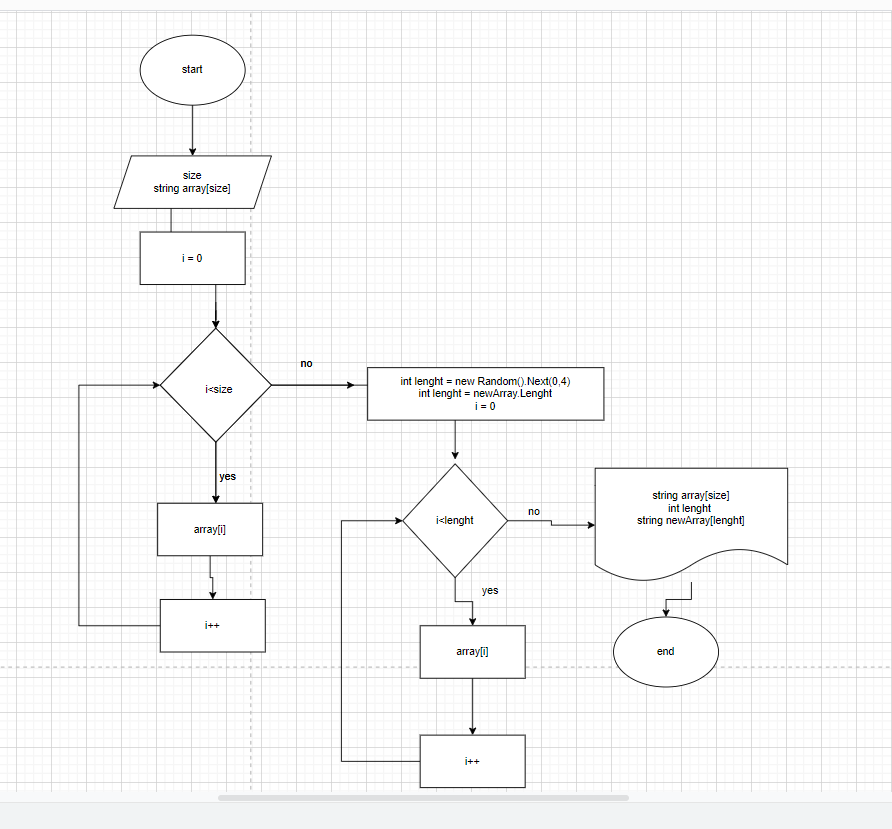
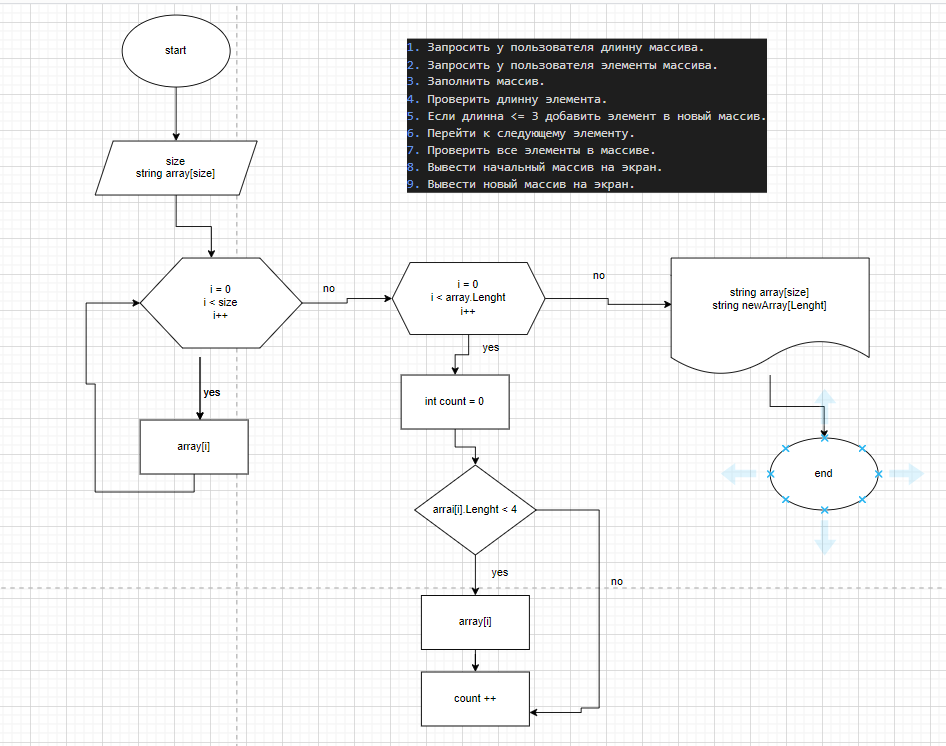
Изменили алгоритм, программу и блок схему на верные. Изначально я не правильно поняла условие задания

diff --git a/Program.cs b/Program.cs
@@ -19,25 +19,24 @@ void ShowArray(string[] array)
     Console.WriteLine();
 }
 
-string[] NewArray(string[] array)
+
+void NewArray(string[] array)
 {
-    int lenght = new Random().Next(0, 4);
-    string[] newArray2 = new string[lenght];
-
-    Console.Write($"Длинна нового массива -> {lenght}");
-
-    for (int i = 0; i < lenght; i++)
+    Console.Write("Получившийся новый массив -> ");
+    for (int i = 0; i < array.Length; i++)
     {
-        newArray2[i] = array[i];
+        int count = 0;
+        if (array[i].Length < 4)
+        {
+            Console.Write(array[i] + " ");
+            count++;
+        }
     }
-    Console.WriteLine();
-    return newArray2;
-
 }
 
 Console.WriteLine("Введите размер массива");
 int size = Convert.ToInt32(Console.ReadLine());
 string[] newArray = Array(size);
 ShowArray(newArray);
-ShowArray(NewArray(newArray));
+NewArray(newArray);
 

diff --git a/README.md b/README.md
@@ -7,9 +7,9 @@
 1. Запросить у пользователя длинну массива.
 2. Запросить у пользователя элементы массива.
 3. Заполнить массив.
-4. Запросить рандомно число от 0 до 3.
-5. Положить его в переменную и присвоить значение этой переменной длинне нового массива.
-6. Из этого массива сформировать новый массив, с новой длинной.
-7. Вывести начальный массив на экран.
-8. Вывести длинну нового массива.
+4. Проверить длинну элемента.
+5. Если длинна <= 3 добавить элемент в новый массив.
+6. Перейти к следующему элементу.
+7. Проверить все элементы в массиве.
+8. Вывести начальный массив на экран.
 9. Вывести новый массив на экран.
